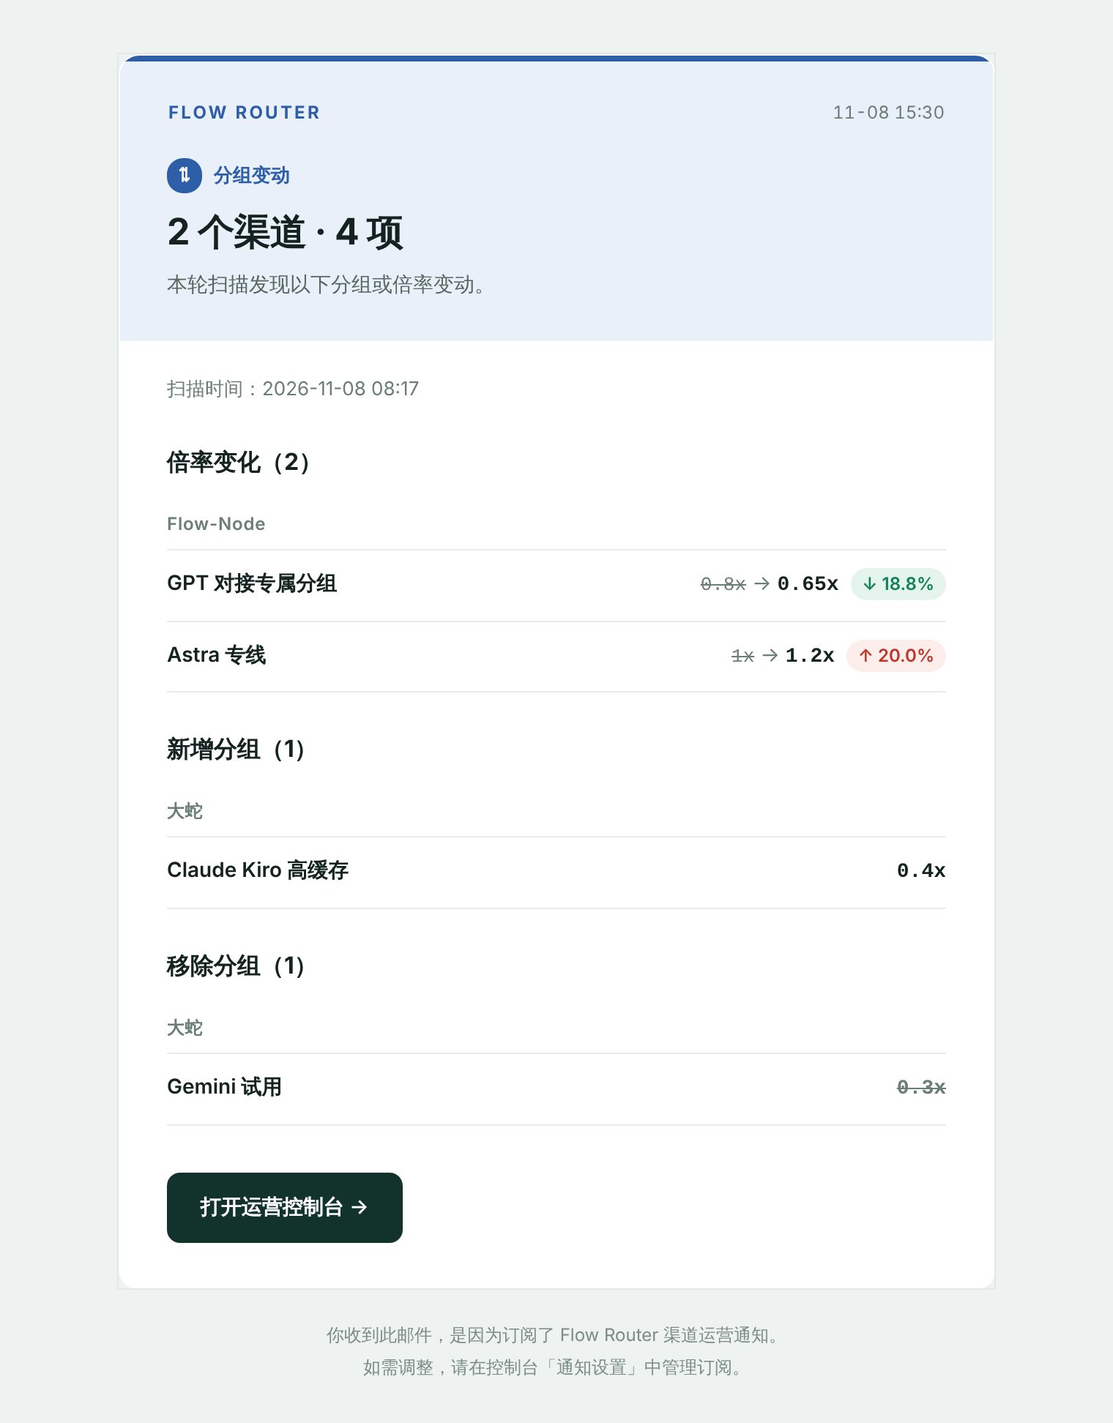
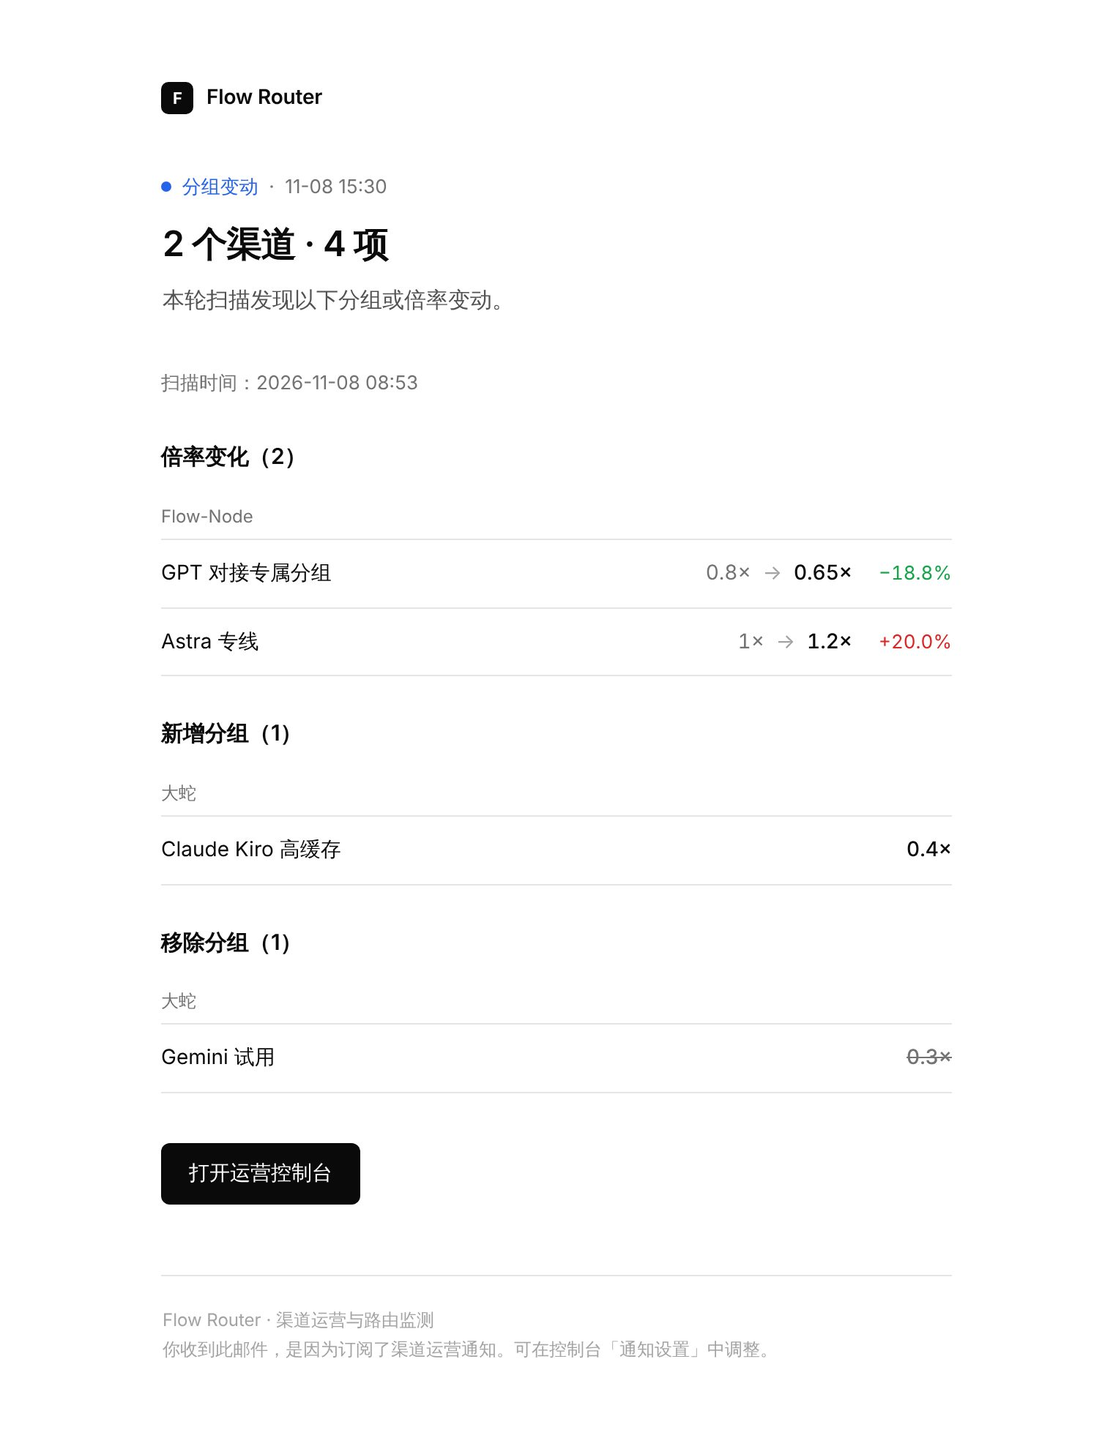
style(notify): restrained, typography-led email layout
Drop the tinted hero, icon badges, colored pills and boxed cards in favour
of a plain white column: small wordmark, status dot + label line, headline,
hairline-separated figures and detail rows, single black button. Color is
reserved for the status dot and rate deltas. Dark mode inverts cleanly.

Claude-Session: https://claude.ai/code/session_012T38YwmNFLz4ivi6Yts5tg

diff --git a/backend/notify/email_template.html b/backend/notify/email_template.html
@@ -7,72 +7,75 @@
 <meta name="supported-color-schemes" content="light dark">
 <title>{{.Title}}</title>
 <style>
-body,table,td,a{-webkit-text-size-adjust:100%;-ms-text-size-adjust:100%}table{border-collapse:collapse}a{color:#0f766e}
-@media only screen and (max-width:620px){
-.outer{padding:16px 10px 24px!important}.pad{padding-left:20px!important;padding-right:20px!important}
-.hero{padding-top:22px!important;padding-bottom:22px!important}.headline{font-size:22px!important}
-.metric{display:block!important;width:auto!important;padding:14px 16px!important;border-left:0!important;border-top:1px solid #e7ecea!important}
-.metric-first{border-top:0!important}.metric-value{font-size:24px!important}.kv-label{width:76px!important}
+body,table,td,a{-webkit-text-size-adjust:100%;-ms-text-size-adjust:100%}table{border-collapse:collapse}a{color:#0a0a0a}
+@media only screen and (max-width:600px){
+.outer{padding:32px 20px 40px!important}.headline{font-size:21px!important}
+.metric{display:block!important;width:auto!important;padding:14px 0 0!important}.metric-value{font-size:24px!important}
+.kv-label{width:72px!important}
 }
 @media (prefers-color-scheme:dark){
-.email-bg{background-color:#0f1513!important}.surface{background-color:#171f1c!important;border-color:#2a3531!important}
-.hero{background-color:#1d2724!important}.ink{color:#eef3f1!important}.muted{color:#9fb1ab!important}
-.soft{background-color:#202a27!important;border-color:#2a3531!important}.rule{border-color:#2a3531!important}
-.metric{border-color:#2a3531!important}.warn{background-color:#2e2614!important;color:#f1d8a8!important}
-.mail-body p,.mail-body td{color:#d7e1dd!important}.mail-body a{color:#7fd8bf!important}
+.email-bg{background-color:#0a0a0a!important}.ink{color:#ededed!important}.muted{color:#a1a1a1!important}
+.rule{border-color:#262626!important}.mark{background-color:#ededed!important;color:#0a0a0a!important}
+.btn{background-color:#ededed!important}.btn a{color:#0a0a0a!important}.code{background-color:#1a1a1a!important;color:#d4d4d4!important}
+.mail-body td,.mail-body p{color:#d4d4d4!important}.mail-body a{color:#ededed!important}
 }
 </style>
 </head>
-<body class="email-bg" style="margin:0;padding:0;background-color:#eef2f0;font-family:-apple-system,BlinkMacSystemFont,'Segoe UI','PingFang SC','Hiragino Sans GB','Microsoft YaHei',Arial,sans-serif;color:#14231f;">
-<div style="display:none;font-size:1px;color:#eef2f0;line-height:1px;max-height:0;max-width:0;opacity:0;overflow:hidden;mso-hide:all;">{{.Preheader}}</div>
-<table role="presentation" width="100%" class="email-bg" bgcolor="#eef2f0" style="width:100%;background-color:#eef2f0;">
-<tr><td align="center" class="outer" style="padding:36px 16px 32px;">
-<!--[if mso]><table role="presentation" width="600"><tr><td><![endif]-->
-<table role="presentation" width="100%" style="width:100%;max-width:600px;">
+<body class="email-bg" style="margin:0;padding:0;background-color:#ffffff;font-family:-apple-system,BlinkMacSystemFont,'Segoe UI','PingFang SC','Hiragino Sans GB','Microsoft YaHei','Helvetica Neue',Arial,sans-serif;color:#0a0a0a;-webkit-font-smoothing:antialiased;">
+<div style="display:none;font-size:1px;color:#ffffff;line-height:1px;max-height:0;max-width:0;opacity:0;overflow:hidden;mso-hide:all;">{{.Preheader}}</div>
+<table role="presentation" width="100%" class="email-bg" bgcolor="#ffffff" style="width:100%;background-color:#ffffff;">
+<tr><td align="center" class="outer" style="padding:56px 24px 56px;">
+<!--[if mso]><table role="presentation" width="540"><tr><td><![endif]-->
+<table role="presentation" width="100%" style="width:100%;max-width:540px;">
 
-<tr><td class="surface" bgcolor="#ffffff" style="background-color:#ffffff;border:1px solid #e1e8e5;border-radius:14px;overflow:hidden;">
-<table role="presentation" width="100%" style="width:100%;">
-
-<!-- Hero: status-tinted header -->
-<tr><td class="pad hero" bgcolor="{{.Theme.Background}}" style="padding:24px 32px 26px;background-color:{{.Theme.Background}};border-top:4px solid {{.Theme.Color}};">
-<table role="presentation" width="100%" style="width:100%;"><tr>
-<td style="font-size:12px;line-height:20px;font-weight:700;letter-spacing:1.6px;color:{{.Theme.Color}};">FLOW ROUTER</td>
-<td align="right" class="muted" style="font-size:12px;line-height:20px;color:#6b7d77;font-variant-numeric:tabular-nums;">{{.Date}}</td>
+<!-- Wordmark -->
+<tr><td style="padding:0 0 40px;">
+<table role="presentation"><tr>
+<td class="mark" width="20" height="20" bgcolor="#0a0a0a" style="width:20px;height:20px;border-radius:5px;background-color:#0a0a0a;color:#ffffff;font-size:11px;line-height:20px;font-weight:700;text-align:center;letter-spacing:-0.5px;">F</td>
+<td class="ink" style="padding-left:9px;font-size:14px;line-height:20px;font-weight:600;letter-spacing:-0.1px;color:#0a0a0a;">Flow Router</td>
 </tr></table>
-<table role="presentation" style="margin-top:20px;"><tr>
-<td width="22" height="22" bgcolor="{{.Theme.Color}}" style="width:22px;height:22px;border-radius:11px;background-color:{{.Theme.Color}};color:#ffffff;font-size:13px;line-height:22px;font-weight:700;text-align:center;">{{.Theme.Icon}}</td>
-<td style="padding-left:8px;font-size:13px;line-height:22px;font-weight:700;color:{{.Theme.Color}};">{{.Theme.Label}}</td>
-</tr></table>
-<h1 class="headline ink" style="margin:10px 0 6px;font-size:25px;line-height:1.4;font-weight:700;letter-spacing:-0.3px;color:#14231f;overflow-wrap:anywhere;word-break:break-word;">{{.Title}}</h1>
-<p class="muted" style="margin:0;font-size:14px;line-height:1.7;color:#55675f;">{{.Description}}</p>
 </td></tr>
 
-{{if .Metrics}}<!-- Key figures -->
-<tr><td class="pad" style="padding:24px 32px 0;">
-<table role="presentation" width="100%" class="soft" style="width:100%;border:1px solid #e7ecea;border-radius:12px;border-collapse:separate;table-layout:fixed;"><tr>
-{{range $i, $m := .Metrics}}<td valign="top" width="{{$.MetricWidth}}" class="metric{{if eq $i 0}} metric-first{{end}}" style="padding:18px 18px 16px;{{if ne $i 0}}border-left:1px solid #e7ecea;{{end}}">
-<p class="muted" style="margin:0 0 6px;font-size:12px;line-height:18px;color:#6b7d77;">{{$m.Label}}</p>
-<p class="metric-value ink" style="margin:0;font-size:26px;line-height:1.2;font-weight:700;letter-spacing:-0.5px;color:{{if eq $m.Label "预计可用"}}{{$.Theme.Color}}{{else}}#14231f{{end}};font-variant-numeric:tabular-nums;white-space:nowrap;">{{$m.Value}}<span class="muted" style="font-size:13px;font-weight:500;letter-spacing:0;color:#6b7d77;">&nbsp;{{$m.Unit}}</span></p>
-{{if $m.Note}}<p class="muted" style="margin:6px 0 0;font-size:12px;line-height:18px;color:#6b7d77;">{{$m.Note}}</p>{{end}}
+<!-- Status line -->
+<tr><td class="muted" style="padding:0 0 12px;font-size:13px;line-height:20px;color:#737373;">
+<span style="display:inline-block;width:7px;height:7px;border-radius:4px;background-color:{{.Theme.Color}};vertical-align:1px;"></span>&nbsp;&nbsp;<span style="color:{{.Theme.Color}};font-weight:500;">{{.Theme.Label}}</span>&nbsp;&nbsp;·&nbsp;&nbsp;{{.Date}}
+</td></tr>
+
+<!-- Headline -->
+<tr><td>
+<h1 class="headline ink" style="margin:0 0 10px;font-size:24px;line-height:1.35;font-weight:600;letter-spacing:-0.4px;color:#0a0a0a;overflow-wrap:anywhere;word-break:break-word;">{{.Title}}</h1>
+<p class="muted" style="margin:0;font-size:15px;line-height:1.65;color:#525252;">{{.Description}}</p>
+</td></tr>
+
+{{if .Metrics}}<!-- Figures -->
+<tr><td style="padding:32px 0 0;">
+<table role="presentation" width="100%" class="rule" style="width:100%;border-top:1px solid #e5e5e5;table-layout:fixed;"><tr>
+{{range $i, $m := .Metrics}}<td valign="top" width="{{$.MetricWidth}}" class="metric" style="padding:20px 16px 0 0;">
+<p class="muted" style="margin:0 0 6px;font-size:12px;line-height:18px;color:#737373;">{{$m.Label}}</p>
+<p class="metric-value ink" style="margin:0;font-size:28px;line-height:1.15;font-weight:500;letter-spacing:-0.8px;color:#0a0a0a;font-variant-numeric:tabular-nums;white-space:nowrap;">{{$m.Value}}<span class="muted" style="font-size:13px;font-weight:400;letter-spacing:0;color:#737373;">&nbsp;{{$m.Unit}}</span></p>
+{{if $m.Note}}<p class="muted" style="margin:6px 0 0;font-size:12px;line-height:18px;color:#737373;">{{$m.Note}}</p>{{end}}
 </td>{{end}}
 </tr></table>
 </td></tr>{{end}}
 
 <!-- Details -->
-<tr><td class="pad mail-body" style="padding:22px 32px 4px;font-size:14px;line-height:1.75;color:#33463f;overflow-wrap:anywhere;word-break:break-word;">{{.Body}}</td></tr>
+<tr><td class="mail-body" style="padding:32px 0 0;font-size:14px;line-height:1.7;color:#262626;overflow-wrap:anywhere;word-break:break-word;">{{.Body}}</td></tr>
 
 {{if .ActionURL}}<!-- Actions -->
-<tr><td class="pad" style="padding:10px 32px 30px;">
+<tr><td style="padding:16px 0 0;">
 <table role="presentation"><tr>
-<td bgcolor="#12332c" style="background-color:#12332c;border-radius:9px;mso-padding-alt:13px 22px;"><a href="{{.ActionURL}}" target="_blank" style="display:inline-block;padding:13px 22px;font-size:14px;line-height:20px;font-weight:600;color:#ffffff;text-decoration:none;">{{.ActionLabel}}&nbsp;&rarr;</a></td>
-{{if .SecondaryURL}}<td style="padding-left:18px;"><a href="{{.SecondaryURL}}" target="_blank" style="font-size:14px;line-height:20px;font-weight:600;color:#0f766e;text-decoration:none;">{{.SecondaryLabel}}</a></td>{{end}}
+<td class="btn" bgcolor="#0a0a0a" style="background-color:#0a0a0a;border-radius:6px;mso-padding-alt:10px 18px;"><a href="{{.ActionURL}}" target="_blank" style="display:inline-block;padding:10px 18px;font-size:14px;line-height:20px;font-weight:500;color:#ffffff;text-decoration:none;">{{.ActionLabel}}</a></td>
+{{if .SecondaryURL}}<td style="padding-left:20px;"><a href="{{.SecondaryURL}}" target="_blank" class="muted" style="font-size:14px;line-height:20px;color:#525252;text-decoration:none;">{{.SecondaryLabel}}&nbsp;→</a></td>{{end}}
 </tr></table>
-</td></tr>{{else}}<tr><td style="height:24px;line-height:24px;font-size:1px;">&nbsp;</td></tr>{{end}}
+</td></tr>{{end}}
 
-</table>
+<!-- Footer -->
+<tr><td style="padding:48px 0 0;">
+<table role="presentation" width="100%" class="rule" style="width:100%;border-top:1px solid #e5e5e5;"><tr>
+<td class="muted" style="padding-top:20px;font-size:12px;line-height:1.7;color:#a3a3a3;">Flow Router · 渠道运营与路由监测<br>你收到此邮件，是因为订阅了渠道运营通知。可在控制台「通知设置」中调整。</td>
+</tr></table>
 </td></tr>
 
-<tr><td align="center" class="muted" style="padding:20px 16px 0;font-size:12px;line-height:1.8;color:#7b8c86;">你收到此邮件，是因为订阅了 Flow Router 渠道运营通知。<br>如需调整，请在控制台「通知设置」中管理订阅。</td></tr>
 </table>
 <!--[if mso]></td></tr></table><![endif]-->
 </td></tr></table>

diff --git a/backend/notify/email_template.go b/backend/notify/email_template.go
@@ -39,24 +39,24 @@ type emailView struct {
 }
 
 func notificationEmailTheme(event storage.NotificationEvent) emailTheme {
-	theme := emailTheme{"系统通知", "i", "#0f766e", "#e6f3ef", "有一条新的运营通知。"}
+	theme := emailTheme{"系统通知", "i", "#525252", "", "有一条新的运营通知。"}
 	switch event {
 	case storage.EventBalanceExhausted:
-		theme = emailTheme{"余额耗尽", "!", "#c0352b", "#fdeeec", "额度已耗尽，相关路由可能已停止服务，请尽快处理。"}
+		theme = emailTheme{"余额耗尽", "!", "#dc2626", "", "额度已耗尽，相关路由可能已停止服务，请尽快处理。"}
 	case storage.EventBalanceCritical:
-		theme = emailTheme{"余额紧急", "!", "#c0352b", "#fdeeec", "额度即将耗尽，请优先检查受影响的分组与路由。"}
+		theme = emailTheme{"余额紧急", "!", "#dc2626", "", "额度即将耗尽，请优先检查受影响的分组与路由。"}
 	case storage.EventBalanceLow, storage.EventSubscriptionDailyLow, storage.EventSubscriptionWeeklyLow, storage.EventSubscriptionMonthlyLow:
-		theme = emailTheme{"额度预警", "!", "#b26a00", "#fdf3e1", "可用额度偏低，建议提前安排充值。"}
+		theme = emailTheme{"额度预警", "!", "#d97706", "", "可用额度偏低，建议提前安排充值。"}
 	case storage.EventSubscriptionExpiring:
-		theme = emailTheme{"订阅到期", "!", "#b26a00", "#fdf3e1", "订阅即将到期，请及时续期。"}
+		theme = emailTheme{"订阅到期", "!", "#d97706", "", "订阅即将到期，请及时续期。"}
 	case storage.EventBalanceRecovered:
-		theme = emailTheme{"已恢复", "✓", "#12805c", "#e5f4ec", "额度已补充，以下为路由恢复结果。"}
+		theme = emailTheme{"已恢复", "✓", "#16a34a", "", "额度已补充，以下为路由恢复结果。"}
 	case storage.EventRateChanged, storage.EventRateStructureChanged, storage.EventRateAdded, storage.EventRateRemoved:
-		theme = emailTheme{"分组变动", "⇅", "#2f5ea8", "#eaf0fa", "本轮扫描发现以下分组或倍率变动。"}
+		theme = emailTheme{"分组变动", "⇅", "#2563eb", "", "本轮扫描发现以下分组或倍率变动。"}
 	case storage.EventMonitorFailed, storage.EventLoginFailed, storage.EventCaptchaFailed:
-		theme = emailTheme{"监测异常", "×", "#c0352b", "#fdeeec", "本轮监测或渠道认证未能完成。"}
+		theme = emailTheme{"监测异常", "×", "#dc2626", "", "本轮监测或渠道认证未能完成。"}
 	case storage.EventAnnouncement:
-		theme = emailTheme{"渠道公告", "i", "#2f5ea8", "#eaf0fa", "渠道发布了一条新公告。"}
+		theme = emailTheme{"渠道公告", "i", "#2563eb", "", "渠道发布了一条新公告。"}
 	}
 	return theme
 }
@@ -198,19 +198,19 @@ func renderEmailHTML(msg Message, consoleURL string, at time.Time) (string, erro
 }
 
 const (
-	emailInk    = "#14231f"
-	emailText   = "#33463f"
-	emailMuted  = "#6b7d77"
-	emailLine   = "#e7ecea"
-	emailMono   = "'SFMono-Regular',Menlo,Consolas,monospace"
-	emailUp     = "#c0352b"
-	emailDown   = "#12805c"
-	emailCodeBg = "#f0f4f2"
+	emailInk    = "#0a0a0a"
+	emailText   = "#262626"
+	emailMuted  = "#737373"
+	emailLine   = "#e5e5e5"
+	emailMono   = "'SF Mono','SFMono-Regular',Menlo,Consolas,monospace"
+	emailUp     = "#dc2626"
+	emailDown   = "#16a34a"
+	emailCodeBg = "#f5f5f5"
 )
 
 func renderEmailError(body string) string {
 	return `<p class="muted" style="margin:0 0 8px;font-size:12px;line-height:18px;color:` + emailMuted + `;">错误信息</p>` +
-		`<div class="soft" style="background-color:#f6f8f7;border:1px solid ` + emailLine + `;border-radius:10px;padding:14px 16px;font-family:` + emailMono + `;font-size:13px;line-height:1.7;color:` + emailText + `;white-space:pre-wrap;overflow-wrap:anywhere;word-break:break-word;margin:0 0 18px;">` + html.EscapeString(strings.TrimSpace(body)) + `</div>`
+		`<div class="code" style="background-color:` + emailCodeBg + `;border-radius:6px;padding:14px 16px;font-family:` + emailMono + `;font-size:13px;line-height:1.7;color:` + emailText + `;white-space:pre-wrap;overflow-wrap:anywhere;word-break:break-word;margin:0 0 18px;">` + html.EscapeString(strings.TrimSpace(body)) + `</div>`
 }
 
 // Render the CommonMark subset used by our notifications. Raw upstream HTML is
@@ -223,7 +223,7 @@ func renderEmailInline(text string) string {
 		token := text[match[0]:match[1]]
 		switch {
 		case strings.HasPrefix(token, "`"):
-			b.WriteString(`<code class="soft" style="font-family:` + emailMono + `;font-size:12px;background-color:` + emailCodeBg + `;color:#25473e;padding:2px 6px;border-radius:5px;">` + html.EscapeString(strings.Trim(token, "`")) + `</code>`)
+			b.WriteString(`<code class="code" style="font-family:` + emailMono + `;font-size:12px;background-color:` + emailCodeBg + `;color:` + emailText + `;padding:2px 5px;border-radius:4px;">` + html.EscapeString(strings.Trim(token, "`")) + `</code>`)
 		case strings.HasPrefix(token, "**"):
 			b.WriteString(`<strong>` + html.EscapeString(strings.TrimPrefix(strings.TrimSuffix(token, "**"), "**")) + `</strong>`)
 		default:
@@ -234,7 +234,7 @@ func renderEmailInline(text string) string {
 				target = token[cut+2 : len(token)-1]
 			}
 			if safeEmailURL(target) != "" {
-				b.WriteString(`<a href="` + html.EscapeString(target) + `" style="color:#0f766e;text-decoration:underline;word-break:break-all;">` + html.EscapeString(label) + `</a>`)
+				b.WriteString(`<a href="` + html.EscapeString(target) + `" style="color:#0a0a0a;text-decoration:underline;text-underline-offset:2px;word-break:break-all;">` + html.EscapeString(label) + `</a>`)
 			} else {
 				b.WriteString(html.EscapeString(token))
 			}
@@ -251,8 +251,8 @@ var (
 	emailNamedItem   = regexp.MustCompile(`^\*\*([^*\n]+)\*\*：(.+)$`)
 )
 
-func emailPill(text, color, bg string) string {
-	return `<span style="display:inline-block;padding:2px 8px;border-radius:999px;background-color:` + bg + `;color:` + color + `;font-size:12px;line-height:18px;font-weight:600;white-space:nowrap;">` + html.EscapeString(text) + `</span>`
+func emailDelta(text, color string) string {
+	return `<span style="display:inline-block;min-width:56px;padding-left:12px;text-align:right;color:` + color + `;font-size:13px;font-variant-numeric:tabular-nums;white-space:nowrap;">` + html.EscapeString(text) + `</span>`
 }
 
 // renderEmailRatio turns "倍率：`0.8x` 下调 `0.65x`" into "0.8x → 0.65x  -18.8%".
@@ -260,15 +260,15 @@ func renderEmailRatio(detail string) (string, bool) {
 	if m := emailRatioChange.FindStringSubmatch(detail); m != nil {
 		oldV, _ := strconv.ParseFloat(m[1], 64)
 		newV, _ := strconv.ParseFloat(m[3], 64)
-		out := `<span class="muted" style="color:` + emailMuted + `;text-decoration:line-through;font-family:` + emailMono + `;font-size:13px;">` + m[1] + `x</span>` +
-			`<span class="muted" style="color:` + emailMuted + `;">&nbsp;→&nbsp;</span>` +
-			`<strong class="ink" style="color:` + emailInk + `;font-family:` + emailMono + `;font-size:14px;">` + m[3] + `x</strong>`
+		out := `<span class="muted" style="color:` + emailMuted + `;font-variant-numeric:tabular-nums;">` + m[1] + `×</span>` +
+			`<span class="muted" style="color:#a3a3a3;">&nbsp;&nbsp;→&nbsp;&nbsp;</span>` +
+			`<span class="ink" style="color:` + emailInk + `;font-weight:500;font-variant-numeric:tabular-nums;">` + m[3] + `×</span>`
 		if oldV > 0 && newV != oldV {
 			pct := (newV - oldV) / oldV * 100
 			if pct > 0 {
-				out += "&nbsp; " + emailPill(fmt.Sprintf("↑ %.1f%%", pct), emailUp, "#fdeeec")
+				out += emailDelta(fmt.Sprintf("+%.1f%%", pct), emailUp)
 			} else {
-				out += "&nbsp; " + emailPill(fmt.Sprintf("↓ %.1f%%", -pct), emailDown, "#e5f4ec")
+				out += emailDelta(fmt.Sprintf("−%.1f%%", -pct), emailDown)
 			}
 		}
 		return out, true
@@ -280,7 +280,7 @@ func renderEmailRatio(detail string) (string, bool) {
 			style = `color:` + emailMuted + `;text-decoration:line-through;`
 			cls = "muted"
 		}
-		return `<strong class="` + cls + `" style="` + style + `font-family:` + emailMono + `;font-size:14px;">` + m[2] + `x</strong>`, true
+		return `<span class="` + cls + `" style="` + style + `font-weight:500;font-variant-numeric:tabular-nums;">` + m[2] + `×</span>`, true
 	}
 	return "", false
 }
@@ -308,7 +308,7 @@ func renderEmailContent(body, title string, theme emailTheme) string {
 			`<td valign="top" class="rule" style="padding:11px 0;border-bottom:1px solid ` + emailLine + `;color:` + emailText + `;font-size:14px;line-height:1.7;overflow-wrap:anywhere;word-break:break-word;">` + right + `</td></tr>`)
 	}
 	sectionLabel := func(text string) {
-		b.WriteString(`<p class="muted" style="margin:22px 0 8px;font-size:12px;line-height:18px;font-weight:600;letter-spacing:.4px;color:` + emailMuted + `;">` + text + `</p>`)
+		b.WriteString(`<p class="muted" style="margin:20px 0 6px;font-size:12px;line-height:18px;color:` + emailMuted + `;">` + text + `</p>`)
 	}
 	for _, raw := range strings.Split(strings.ReplaceAll(body, "\r\n", "\n"), "\n") {
 		line := strings.TrimSpace(raw)
@@ -324,17 +324,16 @@ func renderEmailContent(body, title string, theme emailTheme) string {
 				if !ok {
 					right = renderEmailInline(m[2])
 				}
-				b.WriteString(`<tr><td valign="top" class="rule ink" style="padding:11px 12px 11px 0;border-bottom:1px solid ` + emailLine + `;color:` + emailInk + `;font-size:14px;line-height:1.7;font-weight:600;overflow-wrap:anywhere;word-break:break-word;">` + html.EscapeString(m[1]) + `</td>` +
+				b.WriteString(`<tr><td valign="top" class="rule ink" style="padding:11px 12px 11px 0;border-bottom:1px solid ` + emailLine + `;color:` + emailInk + `;font-size:14px;line-height:1.7;overflow-wrap:anywhere;word-break:break-word;">` + html.EscapeString(m[1]) + `</td>` +
 					`<td valign="top" align="right" class="rule" style="padding:11px 0;border-bottom:1px solid ` + emailLine + `;color:` + emailText + `;font-size:14px;line-height:1.7;">` + right + `</td></tr>`)
 				continue
 			}
 			name, detail, ok := strings.Cut(item, "：")
 			cell := renderEmailInline(item)
 			if ok && utf8.RuneCountInString(name) <= 40 {
-				cell = `<span class="ink" style="color:` + emailInk + `;font-weight:600;">` + renderEmailInline(name) + `</span><br><span class="muted" style="color:` + emailMuted + `;font-size:13px;">` + renderEmailInline(detail) + `</span>`
+				cell = `<span class="ink" style="color:` + emailInk + `;">` + renderEmailInline(name) + `</span><br><span class="muted" style="color:` + emailMuted + `;font-size:13px;">` + renderEmailInline(detail) + `</span>`
 			}
-			b.WriteString(`<tr><td valign="top" class="rule" style="width:18px;padding:11px 0;border-bottom:1px solid ` + emailLine + `;"><span style="display:inline-block;width:6px;height:6px;border-radius:3px;background-color:` + theme.Color + `;vertical-align:middle;"></span></td>` +
-				`<td valign="top" colspan="1" class="rule" style="padding:11px 0;border-bottom:1px solid ` + emailLine + `;color:` + emailText + `;font-size:14px;line-height:1.7;overflow-wrap:anywhere;word-break:break-word;">` + cell + `</td></tr>`)
+			b.WriteString(`<tr><td valign="top" colspan="2" class="rule" style="padding:11px 0;border-bottom:1px solid ` + emailLine + `;color:` + emailText + `;font-size:14px;line-height:1.7;overflow-wrap:anywhere;word-break:break-word;">` + cell + `</td></tr>`)
 			continue
 		}
 		switch {
@@ -346,7 +345,7 @@ func renderEmailContent(body, title string, theme emailTheme) string {
 			}
 		case strings.HasPrefix(line, "## "):
 			closeBlock()
-			b.WriteString(`<h2 class="ink" style="font-size:16px;line-height:1.5;margin:26px 0 4px;color:` + emailInk + `;">` + renderEmailInline(line[3:]) + `</h2>`)
+			b.WriteString(`<h2 class="ink" style="font-size:15px;line-height:1.5;font-weight:600;margin:28px 0 0;color:` + emailInk + `;">` + renderEmailInline(line[3:]) + `</h2>`)
 		case strings.HasPrefix(line, "### "):
 			closeBlock()
 			sectionLabel(renderEmailInline(line[4:]))
@@ -356,7 +355,7 @@ func renderEmailContent(body, title string, theme emailTheme) string {
 		case strings.HasPrefix(line, "⚠"):
 			closeBlock()
 			line = strings.TrimSpace(strings.TrimPrefix(strings.TrimPrefix(line, "⚠"), ""))
-			b.WriteString(`<table role="presentation" width="100%" style="width:100%;margin:4px 0 18px;"><tr><td class="warn" style="padding:13px 16px;background-color:#fdf3e1;border-left:3px solid #d58a12;border-radius:0 8px 8px 0;color:#6e4a0b;font-size:14px;line-height:1.7;"><strong>注意&nbsp;</strong>` + renderEmailInline(line) + `</td></tr></table>`)
+			b.WriteString(`<table role="presentation" width="100%" style="width:100%;margin:4px 0 24px;"><tr><td style="padding:2px 0 2px 14px;border-left:2px solid ` + theme.Color + `;color:` + emailText + `;font-size:14px;line-height:1.7;">` + renderEmailInline(line) + `</td></tr></table>`)
 		default:
 			label, value, ok := strings.Cut(line, "：")
 			label = strings.TrimSpace(label)
